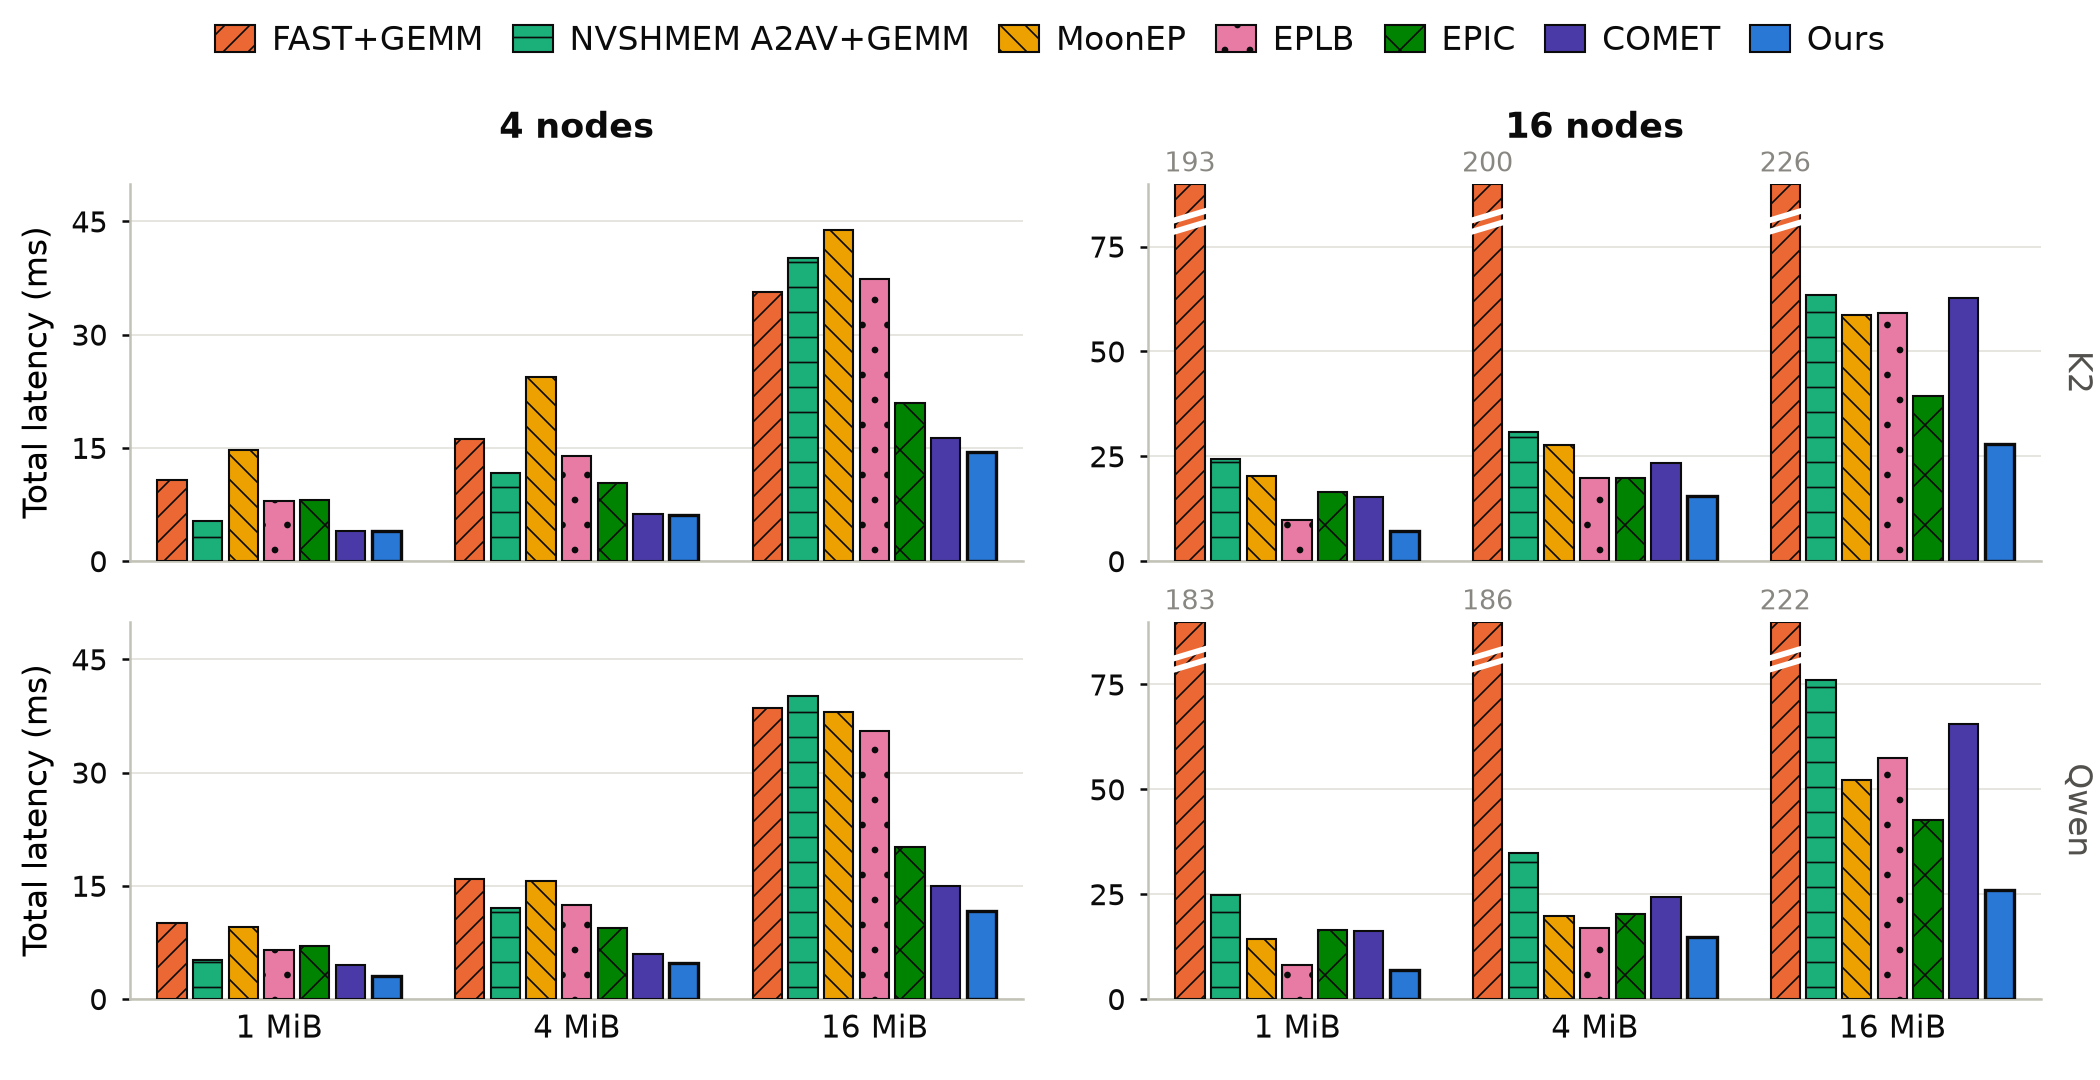
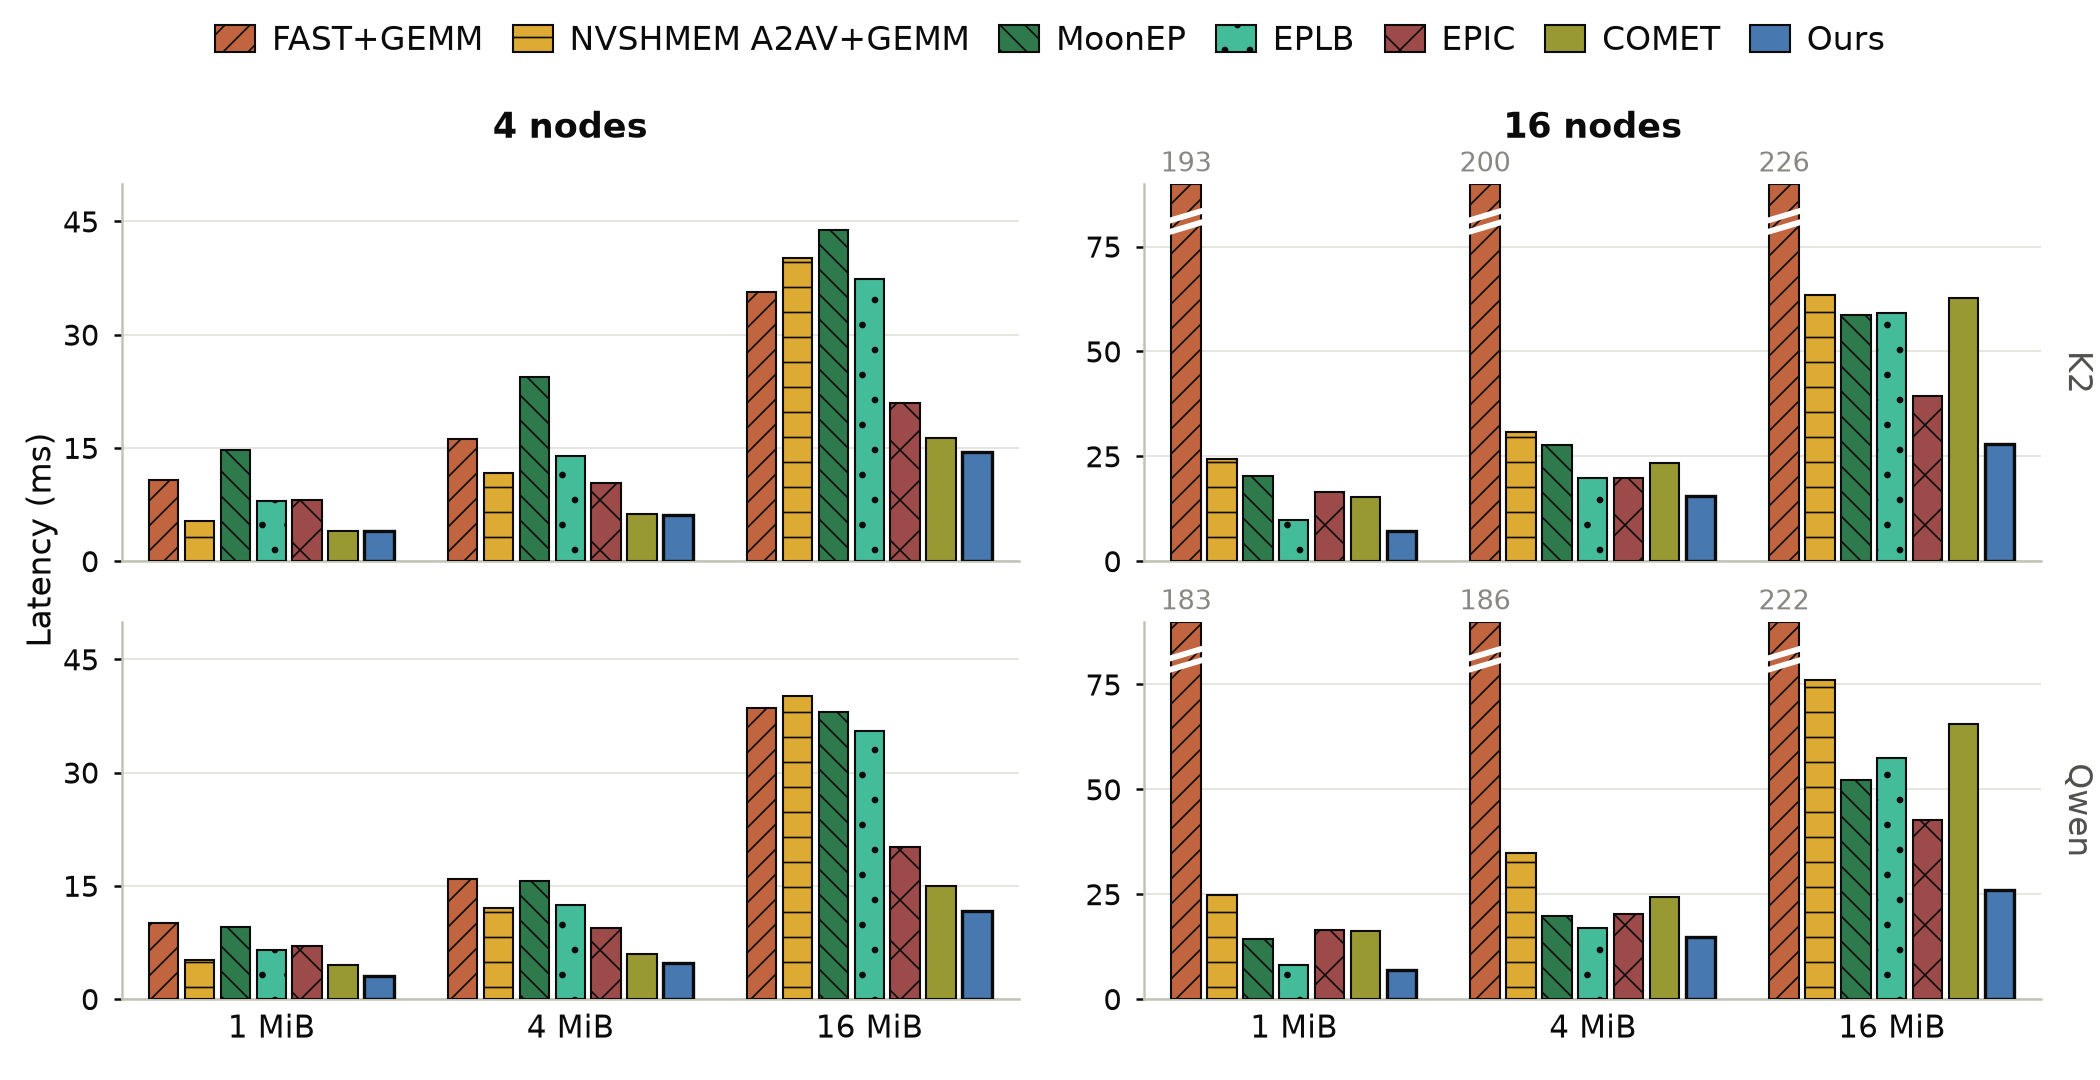
fig main_perf: muted academic palette + single shared y-label
User rulings 9/1: one left-side "Latency (ms)" (fig.supylabel; per-axes
labels removed), no x-axis title by default (budget semantics live in the
caption; X_LABEL knob added), muted palette with no pink/light purple.
New display-order palette terracotta/sand/green/teal/wine/olive/steel-blue
chosen by enumerating muted-pool orderings under the CVD validator (worst
adjacent dE 16.1, normal 18.6 — better margins than the vibrant set); the
naive hue-continuity assignment measured dE 1.1 under deuteranopia (wine
beside green) and is documented in SPEC as a warning. Grayscale proof
re-checked.

diff --git a/fig/main_perf/make_figure.py b/fig/main_perf/make_figure.py
@@ -38,11 +38,12 @@ CONFIG = dict(
     },
     LEGEND_NCOL=7,                            # 7 = single row; 4 -> 4+3 rows
     LEGEND_COLSPACING=0.9,                    # matplotlib columnspacing
-    # ---- colors (validated 2026-09-01, SPEC 5 -- revalidate on change) ----
+    # ---- colors (muted academic set, validated 2026-09-01 -- SPEC 5;
+    #      revalidate on ANY change: display-adjacent CVD dE 16.1, normal 18.6) ----
     COLORS={
-        "fast_gemm": "#eb6834", "nvshmem_gemm": "#1baf7a",
-        "moonep": "#eda100", "eplb": "#e87ba4", "epic": "#008300",
-        "comet": "#4a3aa7", "OURS": "#2a78d6",
+        "fast_gemm": "#c0653f", "nvshmem_gemm": "#ddaa33",
+        "moonep": "#2f7a4d", "eplb": "#44bb99", "epic": "#9d4a4a",
+        "comet": "#999933", "OURS": "#4878b0",
     },
     INK=dict(primary="#0b0b0b", secondary="#52514e", muted="#898781",
              grid="#e1e0d9", axis="#c3c2b7"),
@@ -69,7 +70,7 @@ CONFIG = dict(
     ANNOTATE_SPEEDUP=False,                   # "x.yx" over the Ours bar
     # ---- layout ----
     FIG_W=7.0, FIG_H=3.6,                     # inches (NSDI \textwidth)
-    MARGINS=dict(left=0.062, right=0.972, top=0.83, bottom=0.075),
+    MARGINS=dict(left=0.058, right=0.972, top=0.83, bottom=0.075),
     WSPACE=0.14, HSPACE=0.16,
     COL_TITLES={"4": "4 nodes", "16": "16 nodes"},
     COL_TITLE_PAD=11,                         # pt above axes; clears trunc labels
@@ -78,7 +79,8 @@ CONFIG = dict(
     ROW_TAG_STYLE="right",                    # "right" rotated edge label,
                                               # or "inside" top-left in-axes
     GROUP_LABELS={1: "1 MiB", 4: "4 MiB", 16: "16 MiB"},
-    Y_LABEL="Total latency (ms)",
+    X_LABEL=None,          # axis-level x title; None = budgets defined in caption
+    Y_LABEL="Latency (ms)",   # single shared label on the figure's left edge
     N_YTICKS=4,
     # ---- typography ----
     FONT_FAMILY=["Helvetica", "Arial", "DejaVu Sans"],
@@ -227,9 +229,11 @@ def plot(data, cfg):
                 ax.tick_params(axis="x", length=0)
             else:
                 ax.set_xticks([])
-            if ci == 0:
-                ax.set_ylabel(cfg["Y_LABEL"],
-                              fontsize=cfg["FONT_SIZES"]["ylabel"])
+
+    fig.supylabel(cfg["Y_LABEL"], x=0.012, fontsize=cfg["FONT_SIZES"]["ylabel"])
+    if cfg["X_LABEL"]:
+        fig.supxlabel(cfg["X_LABEL"], y=0.005,
+                      fontsize=cfg["FONT_SIZES"]["ylabel"])
 
     handles = [Patch(facecolor=cfg["COLORS"][s], hatch=cfg["HATCHES"][s],
                      edgecolor=cfg["INK"]["primary"], linewidth=cfg["EDGE_LW"],

diff --git a/fig/main_perf/SPEC.md b/fig/main_perf/SPEC.md
@@ -105,8 +105,14 @@ FAST at 16n (183–227 ms) would flatten every other bar. Mechanism
   y tick labels.
 - X: three group positions labeled `1 MiB / 4 MiB / 16 MiB` **[knob:
   GROUP_LABELS]**, bottom row only; no x tick marks (`length=0`).
-- Y axis label "Total latency (ms)" **[knob: Y_LABEL]** once per row, on the
-  left axes.
+- Y axis label: **one** shared "Latency (ms)" **[knob: Y_LABEL]** on the
+  figure's left edge (`fig.supylabel`), vertically centered over both rows
+  (user ruling 2026-09-01: a single left-side label).
+- X axis label: none by default **[knob: X_LABEL = None]** — the group tick
+  labels are self-describing ("1 MiB" ...), and the *meaning* of the budget
+  axis (per-rank pre-topk send budget) is the caption's job, per the usual
+  systems-paper convention. Setting X_LABEL to a string draws a shared
+  `fig.supxlabel`.
 
 ## 4. Marks (bars)
 
@@ -131,27 +137,31 @@ FAST at 16n (183–227 ms) would flatten every other bar. Mechanism
 ## 5. Color
 
 Categorical palette in **display order** (color follows the system, fixed
-everywhere) **[knob: COLORS]** — validated 2026-09-01 with the dataviz
-six-checks validator (Python twin; math identical: OKLab dE x 100, Machado
-severity-1.0 CVD) against white `#ffffff`:
+everywhere) **[knob: COLORS]**. USER RULING 2026-09-01: muted/academic
+tones, no pink and no light purple — the original vibrant reference palette
+was replaced by this muted set, chosen by enumerating orderings of a muted
+candidate pool with the dataviz six-checks validator (Python twin; math
+identical: OKLab dE x 100, Machado severity-1.0 CVD) against white
+`#ffffff` and taking the best-margin passing order:
 
 | pos | system | hex | note |
 |---|---|---|---|
-| 1 | FAST+GEMM | `#eb6834` | orange |
-| 2 | NVSHMEM A2AV+GEMM | `#1baf7a` | aqua |
-| 3 | MoonEP | `#eda100` | yellow |
-| 4 | EPLB | `#e87ba4` | magenta |
-| 5 | EPIC | `#008300` | green |
-| 6 | COMET | `#4a3aa7` | violet |
-| 7 | **Ours** | `#2a78d6` | blue — the strongest slot, rightmost |
+| 1 | FAST+GEMM | `#c0653f` | terracotta |
+| 2 | NVSHMEM A2AV+GEMM | `#ddaa33` | sand |
+| 3 | MoonEP | `#2f7a4d` | deep green |
+| 4 | EPLB | `#44bb99` | teal |
+| 5 | EPIC | `#9d4a4a` | wine |
+| 6 | COMET | `#999933` | olive |
+| 7 | **Ours** | `#4878b0` | steel blue, rightmost |
 
 Validation results (adjacent pairs = the on-page bar adjacency): lightness
-band PASS, chroma floor PASS, **CVD separation worst 9.1 (protan, >= 8
-target) PASS**, **normal-vision floor worst 16.3 (violet-blue, >= 15) PASS**,
-contrast WARN on aqua/yellow/magenta vs white — relieved by the mandatory
-0.5 pt edge stroke + hatch channel (§4). Re-run the validator after ANY color
-change; the palette hexes are from the validated reference palette and may be
-re-ordered but not re-tuned ad hoc.
+band PASS, chroma floor PASS, **CVD separation worst 16.1 (>= 8 target)
+PASS**, **normal-vision floor worst 18.6 (>= 15) PASS**, contrast WARN on
+sand/teal vs white — relieved by the mandatory 0.5 pt edge stroke + hatch
+channel (§4). Cautionary datum: the "keep old hue families" assignment
+(wine beside deep green) measured **dE 1.1 under deuteranopia** — muted
+red-green neighbors at matched lightness are invisible to dichromats, so
+re-run the validator after ANY color change; never re-order by eye.
 
 Chrome ink **[knob: INK]**: primary `#0b0b0b` (edges, tick labels, axis
 labels), secondary `#52514e` (in-axes model tags), muted `#898781`
